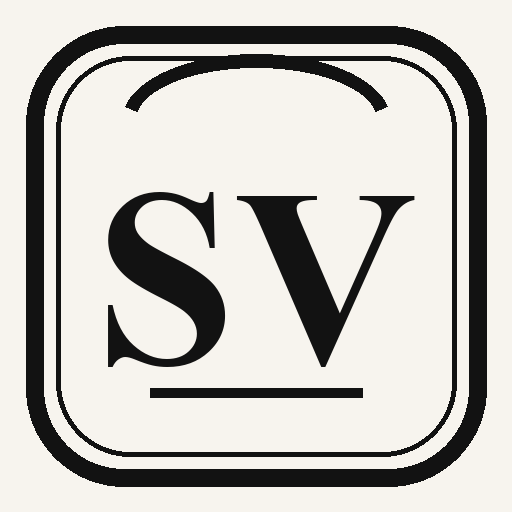
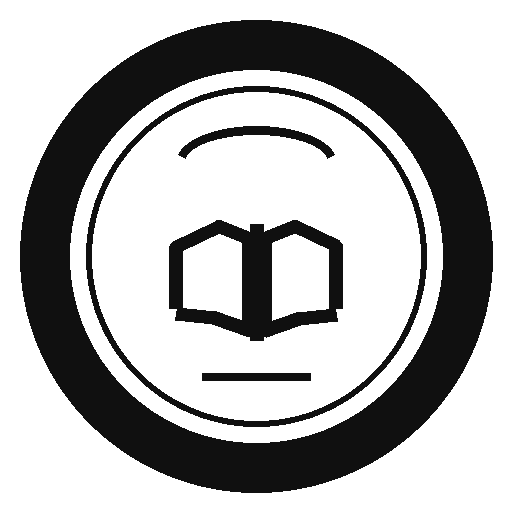
Polish viewer typography and strengthen app entry

diff --git a/src/summa_moral_graph/viewer/render.py b/src/summa_moral_graph/viewer/render.py
@@ -202,7 +202,7 @@ def inject_viewer_css() -> None:
         .smgv-hero h1 {
           margin: 0;
           font-family: "Cinzel Decorative", "Cinzel", "Cormorant Garamond", Georgia, serif;
-          font-size: clamp(2.85rem, 4.8vw, 4.35rem);
+          font-size: clamp(2.45rem, 4.2vw, 3.82rem);
           line-height: 0.92;
           letter-spacing: 0.012em;
           font-weight: 700;
@@ -311,7 +311,8 @@ def inject_viewer_css() -> None:
         .smgv-card h3, .smgv-card h4 {
           margin: 0 0 0.2rem 0;
           line-height: 1.16;
-          font-size: 1rem;
+          font-size: 0.96rem;
+          text-wrap: balance;
         }
 
         .smgv-card p {
@@ -724,7 +725,7 @@ def inject_viewer_css() -> None:
 
         .smgv-map-controls-note {
           color: var(--smg-muted);
-          font-size: 0.66rem;
+          font-size: 0.64rem;
           line-height: 1.12;
           margin: 0 0 0.14rem 0;
           white-space: nowrap;
@@ -791,15 +792,28 @@ def inject_viewer_css() -> None:
 
         .smgv-kv {
           display: grid;
-          grid-template-columns: minmax(7rem, 9rem) 1fr;
-          gap: 0.35rem 0.9rem;
+          grid-template-columns: minmax(5.25rem, 6.7rem) minmax(0, 1fr);
+          gap: 0.28rem 0.72rem;
         }
 
         .smgv-kv strong {
           color: var(--smg-muted);
-          font-size: 0.82rem;
+          font-size: 0.72rem;
+          line-height: 1.08;
           text-transform: uppercase;
           letter-spacing: 0.06em;
+        }
+
+        .smgv-kv-value {
+          color: var(--smg-ink);
+          font-size: 0.88rem;
+          line-height: 1.18;
+          overflow-wrap: anywhere;
+        }
+
+        .smgv-kv-value--id {
+          font-size: 0.78rem;
+          letter-spacing: -0.01em;
         }
 
         .smgv-pills {
@@ -866,16 +880,39 @@ def inject_viewer_css() -> None:
         div.stButton > button,
         div.stDownloadButton > button {
           width: 100%;
-          min-height: 2.65rem;
+          min-height: 2.58rem;
           border-radius: 16px;
           border: 1px solid rgba(20, 34, 53, 0.18);
           background: linear-gradient(180deg, rgba(255, 253, 250, 0.98), rgba(246, 239, 230, 0.98));
           color: var(--smg-ink);
           font-family: "Manrope", sans-serif;
           font-weight: 700;
+          font-size: 0.82rem;
+          line-height: 1.18;
           letter-spacing: 0.01em;
+          white-space: normal;
+          overflow-wrap: anywhere;
+          padding: 0.38rem 0.72rem;
           box-shadow: 0 10px 22px rgba(29, 39, 49, 0.07);
           transition: transform 120ms ease, box-shadow 120ms ease, border-color 120ms ease;
+        }
+
+        [class*="st-key-smg-map-quick-range-"] button {
+          min-height: 2.3rem !important;
+          font-size: 0.72rem !important;
+          letter-spacing: 0 !important;
+          padding: 0.26rem 0.42rem !important;
+        }
+
+        [class*="st-key-smg-map-open-selected-"] button,
+        [class*="st-key-smg-map-center-selected-"] button,
+        [class*="st-key-smg-map-spotlight-selected-"] button,
+        [class*="st-key-smg-passage_previous_page"] button,
+        [class*="st-key-smg-passage_next_page"] button {
+          min-height: 2.42rem !important;
+          font-size: 0.78rem !important;
+          line-height: 1.14 !important;
+          padding: 0.34rem 0.6rem !important;
         }
 
         [class*="st-key-smg-home-open-"] button {
@@ -1154,7 +1191,11 @@ def card(title: str, body: str, *, kicker: str | None = None) -> None:
 
 def key_value_card(title: str, rows: list[tuple[str, str]]) -> None:
     items = "".join(
-        f"<strong>{escape(label)}</strong><div>{escape(value)}</div>" for label, value in rows
+        (
+            f"<strong>{escape(label)}</strong>"
+            f"<div class='smgv-kv-value{' smgv-kv-value--id' if label.lower() == 'id' else ''}'>{escape(value)}</div>"
+        )
+        for label, value in rows
     )
     st.markdown(
         (

diff --git a/src/summa_moral_graph/viewer/shell.py b/src/summa_moral_graph/viewer/shell.py
@@ -1731,7 +1731,7 @@ def _render_map_view(data: ViewerAppData) -> None:
     st.markdown("<div class='smgv-map-section-tight'></div>", unsafe_allow_html=True)
     st.markdown("<div class='smgv-map-controls-lift'></div>", unsafe_allow_html=True)
     top_control_left, top_control_mid, top_control_right = st.columns(
-        (0.68, 2.12, 1.14),
+        (0.54, 2.36, 1.1),
         gap="medium",
     )
     with top_control_left:
@@ -2115,7 +2115,7 @@ def _render_map_view(data: ViewerAppData) -> None:
             if selected_node_id in bundle.registry:
                 with node_left:
                     if st.button(
-                        "Open concept page",
+                        "Open concept",
                         key="smg-map-open-selected-concept",
                         use_container_width=True,
                     ):
@@ -2127,7 +2127,7 @@ def _render_map_view(data: ViewerAppData) -> None:
                         st.rerun()
                 with node_mid:
                     if st.button(
-                        "Use as local center",
+                        "Set local center",
                         key="smg-map-center-selected-concept",
                         use_container_width=True,
                     ):
@@ -2140,7 +2140,7 @@ def _render_map_view(data: ViewerAppData) -> None:
             elif selected_node_id in bundle.questions:
                 with node_left:
                     if st.button(
-                        "Open question passages",
+                        "Open passages",
                         key="smg-map-open-selected-question",
                         use_container_width=True,
                     ):
@@ -2155,7 +2155,7 @@ def _render_map_view(data: ViewerAppData) -> None:
                         st.rerun()
                 with node_mid:
                     if st.button(
-                        "Use as question spotlight",
+                        "Set spotlight",
                         key="smg-map-spotlight-selected-question",
                         use_container_width=True,
                     ):
@@ -2168,7 +2168,7 @@ def _render_map_view(data: ViewerAppData) -> None:
                 article_question_id = _question_for_article(bundle, selected_node_id)
                 with node_left:
                     if st.button(
-                        "Open article passages",
+                        "Open article",
                         key="smg-map-open-selected-article",
                         use_container_width=True,
                     ):

diff --git a/docs/execplans/summa-moral-graph.md b/docs/execplans/summa-moral-graph.md
@@ -2,6 +2,13 @@
 
 ## Progress
 
+- The map shell is being tightened for narrow-column readability:
+  - the home `Summa Virtutum` title is slightly smaller, so the masthead keeps its drama without crowding the first fold
+  - overall-map quick-span buttons now receive a smaller, less wrap-prone treatment
+  - selected-node cards and map-side action buttons now use shorter labels and smaller typography so ids and actions stop breaking awkwardly in the evidence rail
+- The GitHub front page is being tightened again around one obvious public entry:
+  - the live Streamlit link now leads the README with a stronger app-first badge treatment
+  - duplicate top-of-page viewer links have been reduced so the README reads cleaner and faster
 - The favicon is being simplified for recognizability at tiny sizes:
   - the portrait crop has been replaced with a monochrome `SV` seal-style icon
   - the new version uses black linework on a light ground so it still reads when zoomed out in a browser tab
@@ -430,6 +437,10 @@
 
 ## Surprises & Discoveries
 
+- The remaining “prototype feel” was coming from narrow-column typography more than from any major layout bug. A few oversized labels in the map evidence rail made the whole page feel less polished than the underlying structure already was.
+- On a public-facing README, one strong viewer entry works better than several medium-strength links. Repeating the same app URL in different visual styles made the top of the page feel busier rather than more useful.
+- For favicon-scale medieval styling, subtraction helps more than addition. A heavier seal ring and one simple central symbol read better than multiple tiny ornaments.
+- A tab icon can be recognizable without being typographic. For this project, a book-centered seal reads more “scholarly press” than initials alone.
 - A favicon that works at art-book scale can still fail at browser-tab scale. For this app, recognizability matters more than portrait fidelity once the icon shrinks to a few pixels.
 - Very small wording choices matter in narrow dashboard rails: `Local map` is semantically fine, but `Local` reads much better once the control has to live beside quick spans and a range slider.
 - For this project, a portrait-based favicon works better than a symbolic glyph because the product is already visually anchored around Aquinas rather than abstract data tooling.
@@ -563,6 +574,8 @@
 
 ## Decision Log
 
+- Prefer shorter action labels in the map evidence rail when the meaning stays obvious. `Open concept`, `Set local center`, and `Set spotlight` read better in a narrow support column than the longer earlier phrasing.
+- Keep the README top focused on a single public `open the app` action rather than stacking multiple equivalent link blocks.
 - Keep the favicon path stable and iterate the asset itself rather than changing the code path each time the visual direction changes.
 - Prefer shorter visible control labels in constrained dashboard rows, as long as the underlying state names stay explicit and stable.
 - Keep the favicon as a local bundled asset instead of a remote URL so the tab icon stays stable offline, in local dev, and in deployment.
@@ -702,6 +715,13 @@
 
 ## Outcomes & Retrospective
 
+- The map page now reads more cleanly at first glance:
+  - quick spans stay on one line more reliably
+  - selected-node metadata no longer dominates the right rail with oversized wrapped text
+  - map-side action buttons look more deliberate and less cramped
+- The repository front page now feels more app-first:
+  - the live viewer link is easier to spot immediately on GitHub
+  - the top of the README spends less space repeating the same destination in multiple formats
 - The app icon now behaves more like a durable product mark than an artwork thumbnail:
   - it is simpler, monochrome, and easier to recognize in small browser tabs
   - the switch preserves the local asset workflow and avoids another round of code-level favicon plumbing

diff --git a/README.md b/README.md
@@ -2,7 +2,7 @@
 
 An interactive map of Thomas Aquinas's moral corpus.
 
-**Open the live viewer:** [summa-moral-graph.streamlit.app](https://summa-moral-graph.streamlit.app/)
+[![Open the live viewer](https://img.shields.io/badge/Open%20the%20live%20viewer-summa--moral--graph.streamlit.app-183b56?style=for-the-badge&logo=streamlit&logoColor=white)](https://summa-moral-graph.streamlit.app/)
 
 ![Python](https://img.shields.io/badge/Python-3.11%2B-2f5d8a?style=flat-square)
 ![Streamlit](https://img.shields.io/badge/Streamlit-dashboard-b04a2f?style=flat-square)
@@ -10,8 +10,6 @@ An interactive map of Thomas Aquinas's moral corpus.
 ![Layers](https://img.shields.io/badge/Layers-reviewed%20%7C%20editorial%20%7C%20structural%20%7C%20candidate-6d5a7a?style=flat-square)
 
 > Passage-grounded concept, relation, and graph navigation across Thomas Aquinas's moral corpus in the *Summa Theologiae*.
->
-> [![Open in Streamlit](https://static.streamlit.io/badges/streamlit_badge_black_white.svg)](https://summa-moral-graph.streamlit.app/)
 >
 > Source: [GitHub](https://github.com/hanzhenzhujene/summa-moral-graph) · Docs: [Viewer audit](./docs/dashboard_interaction_audit.md) · by [Jenny Zhu](https://www.linkedin.com/in/hanzhen-zhu/)
 
@@ -25,8 +23,7 @@ visibly separate throughout the app.
 
 ## Open The Viewer
 
-**Run now:** [summa-moral-graph.streamlit.app](https://summa-moral-graph.streamlit.app/)  
-`https://summa-moral-graph.streamlit.app/`
+**Live app:** [summa-moral-graph.streamlit.app](https://summa-moral-graph.streamlit.app/)
 
 The Streamlit entrypoint is [`streamlit_app.py`](./streamlit_app.py).
 
